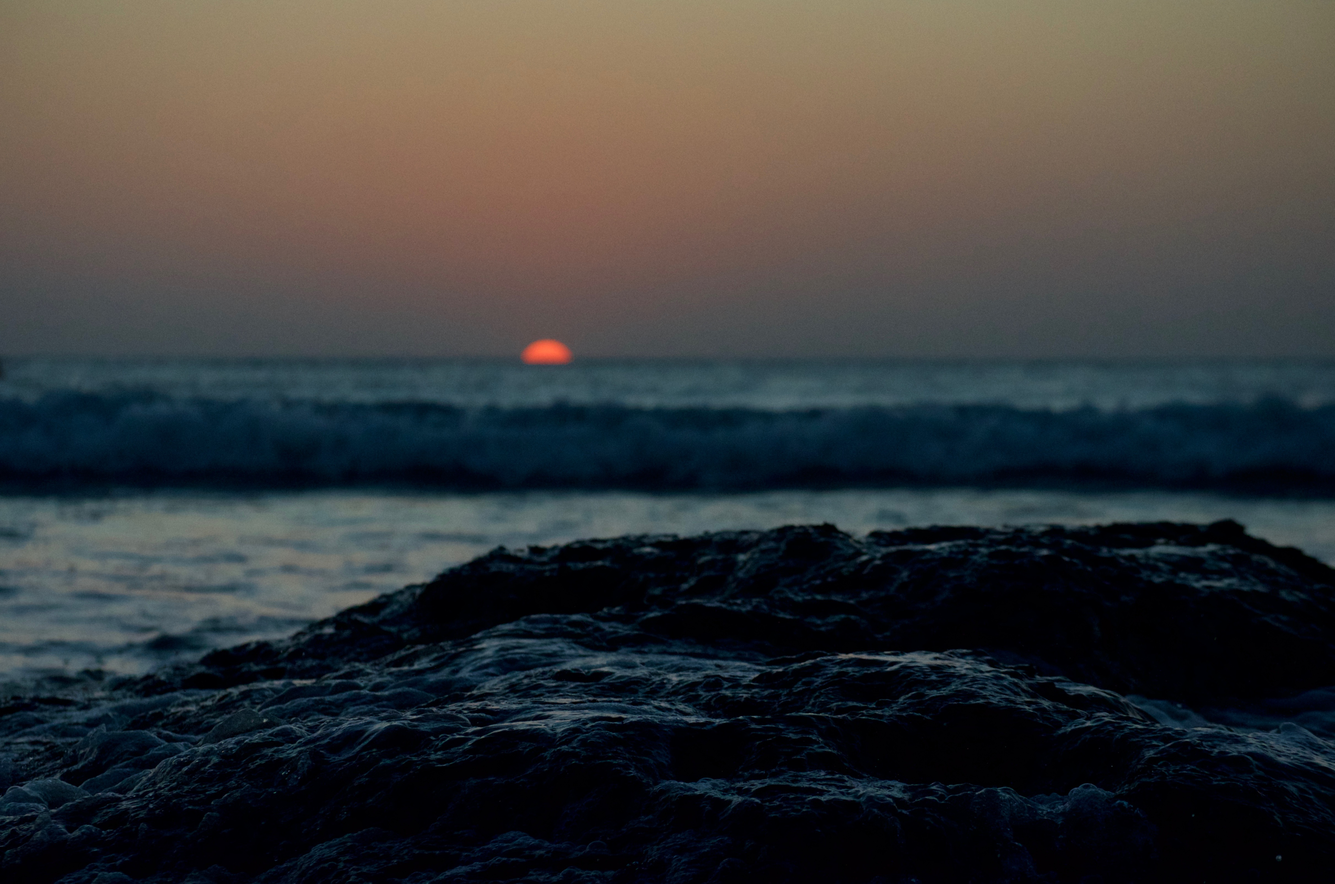
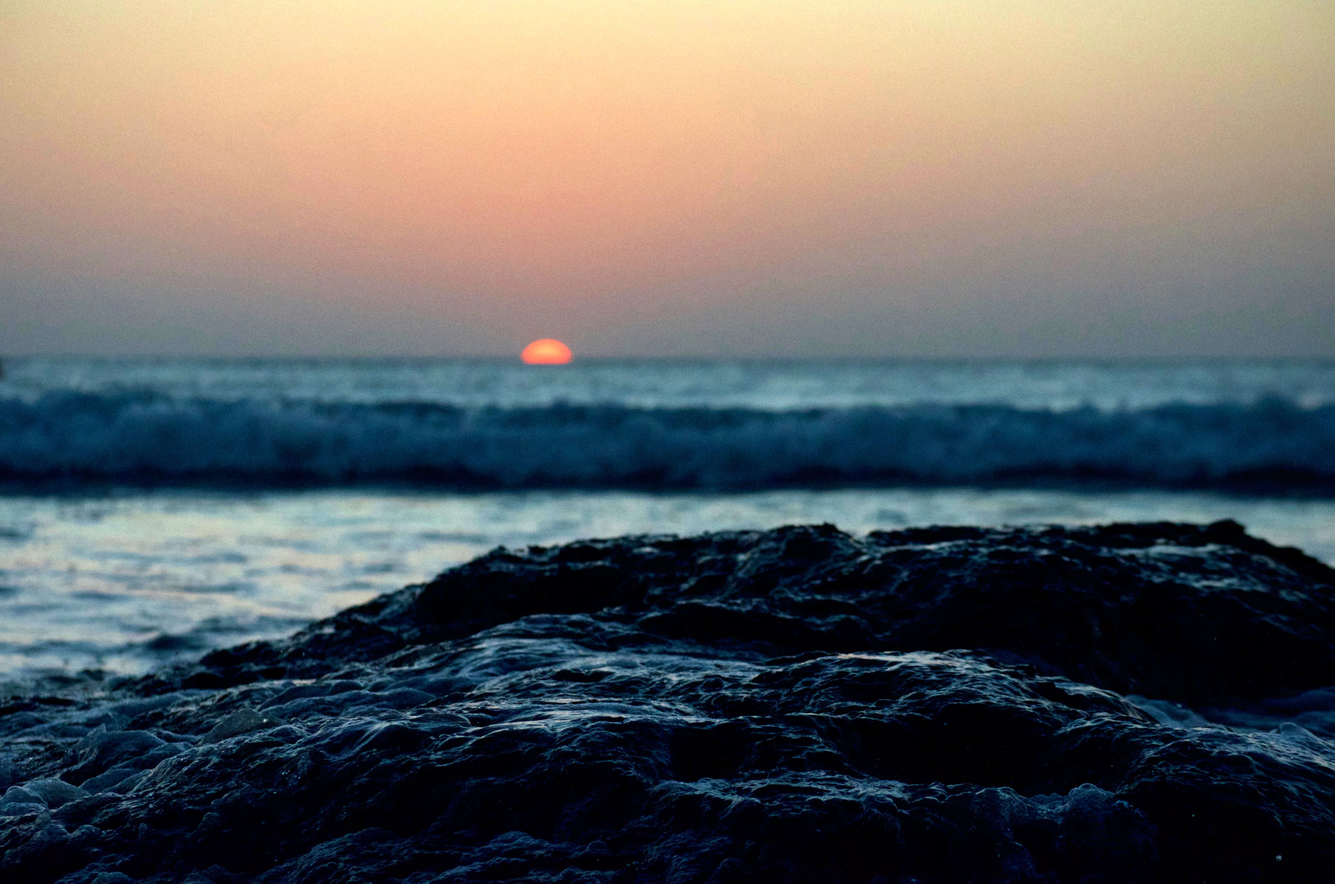
low res image

diff --git a/css/agency.css b/css/agency.css
@@ -310,7 +310,7 @@ header {
     text-align: center;
     color: #fff;
     background-attachment: fixed;
-    background-image: url(../img/header1.jpg);
+    background-image: url(../img/header_low.jpg);
     background-position: center center;
     background-repeat: none;
     -webkit-background-size: cover;
